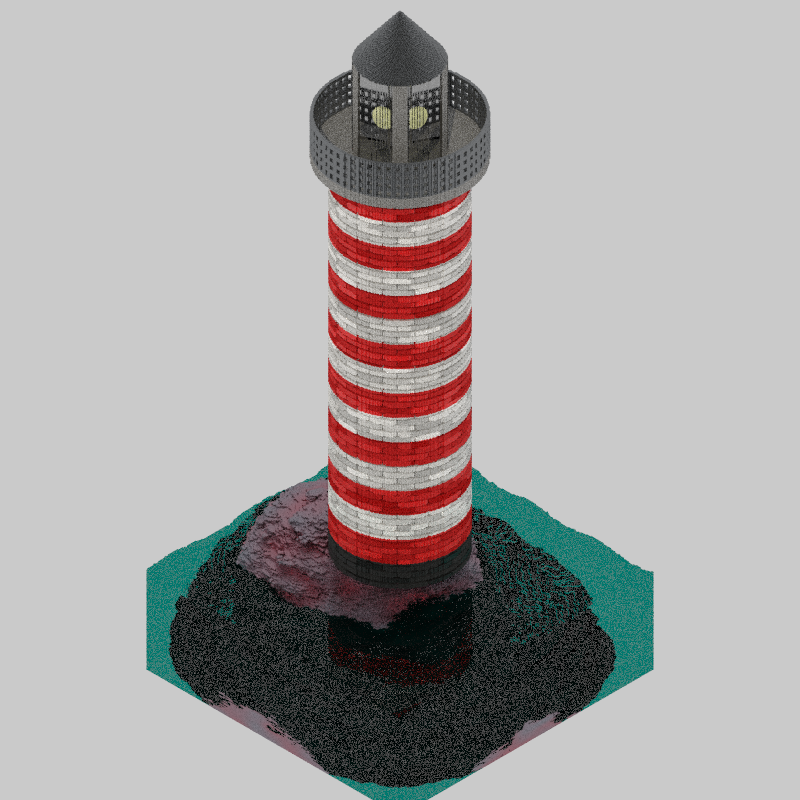
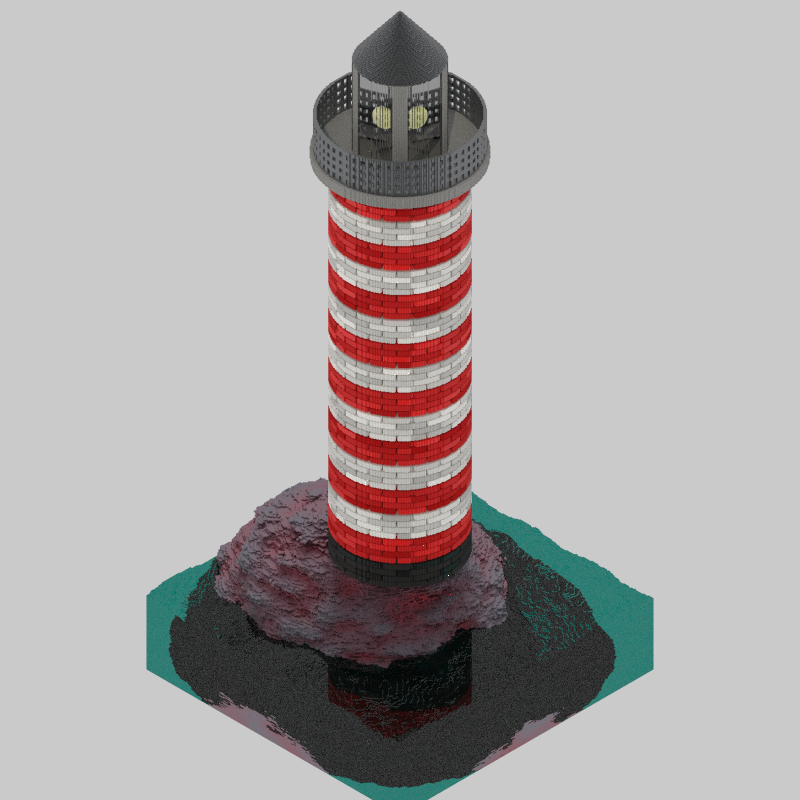
Added a first readme

Changed region(s): [[0.1562, 0.0938, 0.8438, 1.0]]

diff --git a/Readme.md b/Readme.md
@@ -1,1 +1,88 @@
 # Shape-Z: Shape Prozessing Language
+
+![Image](/examples/lighthouse.png)
+
+**Shape-Z** is a recursive, voxel-based modeling language inspired by **GLSL** and shader-like workflows. It is designed for the procedural generation of 3D worlds using simple, expressive code. Unlike traditional modeling tools, Shape-Z treats models as programmable entities—built from logical operations, shapes, and materials—executed on a virtual voxel grid.
+
+> ⚠ *Shape-Z is in the early phase of development and its syntax and features may change.*
+
+## Core Features
+
+At its core, Shape-Z offers a minimal yet powerful syntax to define:
+
+- **Shapes** like `Rect`, `Disc` that describe distance-based extrusion.
+- Recursive **segments** (e.g., `Floor`, `Left`) that subdivide space and define the UV/extrusion domain for patterns and structured modeling.
+- **Patterns** such as `Bricks`, `Modulo`, which automatically adapt to the current subdomain.
+- Fully programmable **Disney BSDF materials** that can interact with patterns and noise.
+- **Procedural logic** using conditionals, noise functions, and math in a GLSL-like syntax.
+
+You write code that **describes how space is filled**, using recursive composition, conditional branching, and procedural evaluation. This enables the creation of anything from detailed architecture and terrain to stylized props and abstract geometry—all in a compact text format.
+
+## Performance & Flexibility
+
+For example, the lighthouse model shown above consists of ~11 million voxels and is fully generated in under a second (at a density of 50 per tile).
+
+Shape-Z supports configurable **voxel density**, allowing you to repurpose the same model for pixel art or high-resolution mesh export.
+
+## Use Shape-Z to
+
+- Build 3D models and worlds in a resolution-independent way, and render them in full Disney BSDF glory.
+- Export models to `.obj` format for integration in 3D engines and pipelines.
+- Rapidly iterate and generate complex geometry with minimal code.
+
+Shape-Z is ideal for game developers, artists, and procedural generation enthusiasts seeking a fast and expressive tool for creative modeling.
+
+## License
+
+Shape-Z is dual-licensed under the same terms as Rust:
+
+- **MIT License**  
+- **Apache License (Version 2.0)**
+
+You may choose either license to use Shape-Z according to your needs.
+
+# Example
+
+![Bathroom](/examples/bathroom.png)
+
+To create the left wall of the example bathroom scene, we create a `Left` space inside a rectangle and extrude the contents from the space based on the `d` (depth) parameter and patterns which adjust to the space.
+
+A code segment to show the syntax is below. For more info and detailed documentation please visit the [Shape-Z Homepage](https://shape-z.com).
+
+```glsl
+voxel Box size = vec3(5, 3, 5) {
+    shape Rect {
+        segment Left depth = 1.0 {
+            if d <= 0.05 {
+                // Back Wall Color
+                White;
+            } else
+            if d < 0.2 {
+                // Bricks in the middle of the wall
+                pattern Bricks {
+                    brick {
+                        Bricks;
+                    }
+                    cement {
+                        White;
+                    }
+                } 
+            }
+
+            // Cabinet
+            shape Rect at = vec2(0.5, 0.0), size = vec2(3.5, 1.2) {
+                if d > 0.2 {
+                    White;
+                }
+
+                if d > 0.9 {
+                    // Relief
+                    let relief = fract(u / 0.3);            
+                    if v < 1.0 && relief > 0.1 && relief < 0.8 {
+                        Clear;
+                    }
+                }
+            }
+        }
+    }
+    ```
